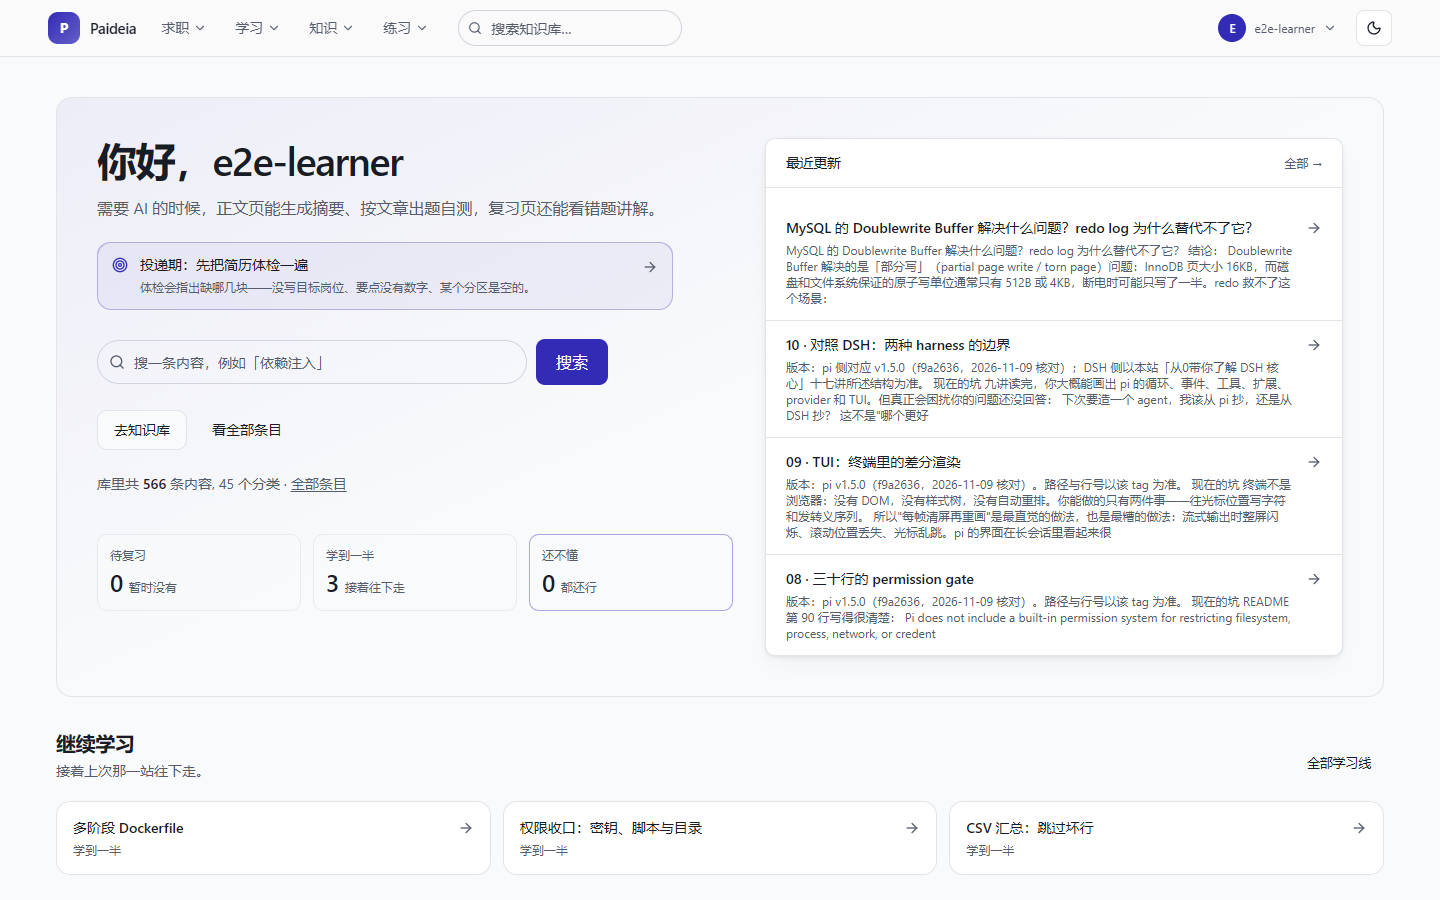
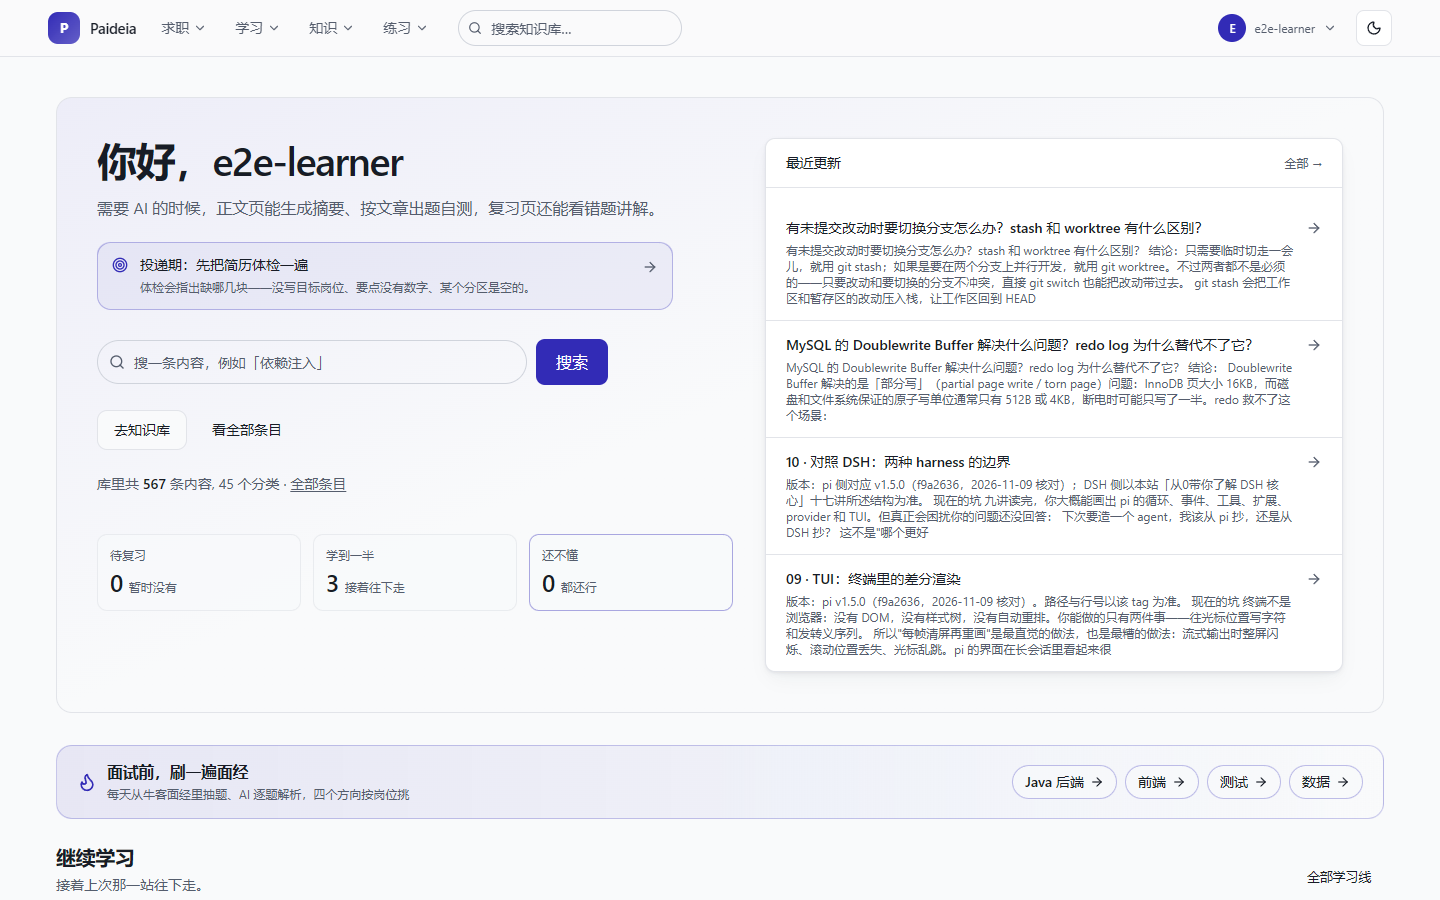
feat(home): 面经专区提到 hero 正下方，并扩成四个方向
问题：八股文专区原来只是「所有入口」列表底部的一行索引项，而且卡死连 essay-java
一个分类——前端/测试/数据三类（9 条）从首页根本进不去。

改动：
- 首页 hero 之后、继续学习之前加一条主色横幅（home-essay-banner）：
  左边一句话说清是什么，右边四个方向 chip（Java 后端 / 前端 / 测试 / 数据），
  各自指向对应分类页；压成一行是为了在 900 高的屏上完整露在首屏（第一版两行被截断）
- 方向列表按 slug 固定顺序从已加载的分类树里取，**不额外发请求**；缺哪个就少哪个
- 删掉「所有入口」里原来那一行，避免同一入口出现两次
- e2e home.spec：改断言横幅存在 + 点 Java 方向能到分类页（testid 改成 home-essay-<slug>）
- README：补一条「面经题库」与矩阵一行；首页截图随之重拍

验证：app tsc 无输出；生产构建通过；部署 84.2 秒 health 通过；线上实测横幅 1 个、
四个 chip 分别指向 categories/20、/901、/902、/903，旧 home-entry-essay 为 0。

diff --git a/frontend/apps/app/src/pages/HomePage.tsx b/frontend/apps/app/src/pages/HomePage.tsx
@@ -9,7 +9,7 @@ import { createIdentityApi, NAV_PREFERENCE, stageCue } from '@paideia/identity'
 import { AppShell, Button, Card, Input, LoadingRow, Section, Spinner } from '@paideia/ui'
 import { useAuth } from '@paideia/auth'
 import { useQuery } from '@tanstack/react-query'
-import { ArrowRight, BookOpen, Container, Database, Dumbbell, FileQuestion, GraduationCap, Layers, MessagesSquare, Network, Newspaper, NotebookPen, Search, Target, Terminal } from 'lucide-react'
+import { ArrowRight, BookOpen, Container, Database, Dumbbell, Flame, GraduationCap, Layers, MessagesSquare, Network, Newspaper, NotebookPen, Search, Target, Terminal } from 'lucide-react'
 import { useMemo, useState, type FormEvent } from 'react'
 import { Link, useNavigate } from 'react-router'
 
@@ -145,6 +145,14 @@ const QUICK_LINKS: {
  * <p>现在首页回答三件事：**我在哪、最近有什么可读、我的学习痕迹**。三个数字都来自接口，
  * 没有一条是写死的。
  */
+/** 面经方向在首页上的短名：分类全名太长，四个入口挤一行会换行。 */
+const ESSAY_LABELS: Record<string, string> = {
+  'essay-java': 'Java 后端',
+  'essay-frontend': '前端',
+  'essay-testing': '测试',
+  'essay-data': '数据',
+}
+
 export function HomePage() {
   const { user } = useAuth()
   // 画像只用来读「当前阶段」那一条建议；入口顺序是常量（2026-11-09 起不再按身份排）
@@ -219,20 +227,21 @@ export function HomePage() {
    * <p>找不到就**不渲染这张卡**——分类不存在时（比如刚部署、定时任务还没建）指向一个
    * 空分类页比不显示入口更糟。
    */
-  const essayCategory = useMemo(() => {
-    const find = (nodes: CategoryNode[]): CategoryNode | undefined => {
+  const essayCategories = useMemo(() => {
+    // 四个方向固定顺序：后端 → 前端 → 测试 → 数据。抓取管线一个合集对应一个分类
+    // （见 application.yml 的 paideia.ai.essay.sources），顺序按岗位热度排。
+    const order = ['essay-java', 'essay-frontend', 'essay-testing', 'essay-data']
+    const found = new Map<string, CategoryNode>()
+    const walk = (nodes: CategoryNode[]) => {
       for (const node of nodes) {
-        if (node.slug === 'essay-java') {
-          return node
+        if (order.includes(node.slug)) {
+          found.set(node.slug, node)
         }
-        const hit = find(node.children)
-        if (hit !== undefined) {
-          return hit
-        }
+        walk(node.children)
       }
-      return undefined
     }
-    return find(categories.data ?? [])
+    walk(categories.data ?? [])
+    return order.map((slug) => found.get(slug)).filter((node): node is CategoryNode => node !== undefined)
   }, [categories.data])
   const assessments = useQuery({
     queryKey: ['my-assessments'],
@@ -445,6 +454,48 @@ export function HomePage() {
         </Card>
       </section>
 
+      {/*
+        面经专区（2026-11-09 从「所有入口」列表底部提到 hero 正下方）。
+        原来它只是一行不起眼的索引项，而且只连 essay-java 一个分类——前端/测试/数据三类
+        根本进不去。现在改成一张带主色的横幅：四个方向各一个 chip，点哪个进哪个分类。
+        数据来自已经加载的 categories 树，**不额外发请求**（条数在分类页里显示）。
+      */}
+      {essayCategories.length === 0 ? null : (
+        <section
+          data-testid="home-essay-banner"
+          className="border-primary/25 from-primary/[0.09] via-primary/[0.05] to-background mb-6 rounded-2xl border bg-gradient-to-r px-4 py-3.5 sm:px-5"
+        >
+          {/*
+            一行装下：左边是什么、右边去哪。900 高的屏上它必须完整露在首屏里——
+            留两行说明就又被挤到折线以下，等于白提上来（2026-11-09 实测）。
+          */}
+          <div className="flex flex-wrap items-center gap-x-4 gap-y-3">
+            <div className="flex min-w-0 items-center gap-2.5">
+              <Flame className="text-primary size-5 shrink-0" aria-hidden />
+              <div className="min-w-0">
+                <h2 className="text-base leading-6 font-semibold">面试前，刷一遍面经</h2>
+                <p className="text-muted-foreground text-xs leading-5">
+                  每天从牛客面经里抽题、AI 逐题解析，四个方向按岗位挑
+                </p>
+              </div>
+            </div>
+            <div className="ml-auto flex flex-wrap gap-2">
+              {essayCategories.map((category) => (
+                <Link
+                  key={category.id}
+                  to={`/knowledge/categories/${category.id}`}
+                  data-testid={`home-essay-${category.slug}`}
+                  className="border-primary/30 bg-background/70 hover:border-primary hover:bg-primary hover:text-primary-foreground inline-flex items-center gap-1.5 rounded-full border px-3 py-1.5 text-sm font-medium transition-colors"
+                >
+                  {ESSAY_LABELS[category.slug] ?? category.name}
+                  <ArrowRight className="size-3.5" aria-hidden />
+                </Link>
+              ))}
+            </div>
+          </div>
+        </section>
+      )}
+
       {/* 「继续学习」：服务端有记录就优先用它（跨设备一致），否则退回本地阅读痕迹。
           只有真读过才出现——空着一条"还没开始"只是噪音。 */}
       {continueLearning.length > 0 ? (
@@ -581,32 +632,6 @@ export function HomePage() {
               </Link>
             </li>
           ))}
-          {/*
-            八股文专区（WORK-025 REQ-004）。它是知识库里的一个分类，不是独立页面，
-            所以不进 `QUICK_LINKS`（那张表要求静态 `to`，而这里的 id 必须运行时解析）。
-          */}
-          {essayCategory === undefined ? null : (
-            <li>
-              <Link
-                to={`/knowledge/categories/${essayCategory.id}`}
-                data-testid="home-entry-essay"
-                className="hover:bg-accent/40 group flex items-center gap-3.5 px-4 py-3 transition-colors"
-              >
-                <span className="text-muted-foreground group-hover:text-primary flex size-8 shrink-0 items-center justify-center rounded-lg transition-colors">
-                  <FileQuestion className="size-4" />
-                </span>
-                <span className="min-w-0 flex-1">
-                  <span className="group-hover:text-primary block text-sm font-medium transition-colors">
-                    八股文专区
-                  </span>
-                  <span className="text-muted-foreground mt-0.5 block truncate text-xs">
-                    每天从面经里抽题，AI 逐题解析，面试前刷一遍。
-                  </span>
-                </span>
-                <ArrowRight className="text-muted-foreground group-hover:text-primary size-4 shrink-0 transition-colors" />
-              </Link>
-            </li>
-          )}
         </ul>
       </Section>
     </AppShell>

diff --git a/frontend/apps/app/e2e/home.spec.ts b/frontend/apps/app/e2e/home.spec.ts
@@ -149,12 +149,13 @@ test('首页有去处；笔记页与知识库页共用同一套外壳', async ({
  * <p>断言分两段，第二段才是关键：卡片存在只说明渲染了，**点进去到达的是那个分类页**才说明
  * id 解析对了。分类 id 在生产是 20、全新库是 900，写死任何一个都会让另一侧指向空分类。
  */
-test('首页有「八股文专区」入口，点进去到达该分类', async ({ page }) => {
+test('首页有「面经」横幅，四个方向各进各的分类', async ({ page }) => {
   await signIn(page)
 
-  const entrance = page.getByTestId('home-entry-essay')
-  await expect(entrance).toBeVisible()
-  await entrance.click()
+  // 2026-11-09：从「所有入口」列表底部提到 hero 正下方，并扩成四个方向。
+  await expect(page.getByTestId('home-essay-banner')).toBeVisible()
+  await expect(page.getByTestId('home-essay-essay-java')).toBeVisible()
+  await page.getByTestId('home-essay-essay-java').click()
 
   // 分类页（不是"全部条目"）：url 带 categories 段
   await expect(page).toHaveURL(/#\/knowledge\/categories\/\d+$/)

diff --git a/README.md b/README.md
@@ -23,6 +23,7 @@
 - **书籍详解**：按书读，不按条查。已上线《人月神话》《数据密集型应用系统设计》《思考，快与慢》《代码整洁之道》，每本 4–5 篇。
 - **源码精读**：拿真实项目逐关读，已上线 MyBatis 3.5.19（24 关）。版本号与 commit 钉在标题下，正文引用的行号以那个 tag 为准。
 - **知识库**：近 600 条内容、50 来个分类，全文搜索、附件、条目间关系；正文右侧常驻目录，读到底才是上一篇／下一篇与自评。
+- **面经题库**：每天从牛客面经里抽题、AI 逐题解析，按 Java／前端／测试／数据四个方向分开；标题就是题目，正文给结论与机制，底部留「回到原帖」。
 
 ### 每天打开的两页
 
@@ -56,6 +57,7 @@
 | 学习线、闯关、进度 | ✓ | ✓ | — |
 | 每日速递 / 学习记录 / 复习 | ✓ | ✓ | — |
 | 知识库阅读、自评、附件 | ✓ | ✓ | — |
+| 面经题库（四个方向） | ✓ | ✓ | 内容导入与审核 |
 | 书籍详解、源码精读 | ✓ | ✓ | — |
 | 知识图谱（二维 / 3D） | ✓ | ✓ | — |
 | SQL 练习、自建数据集 | ✓ | ✓ | 数据集治理 |
